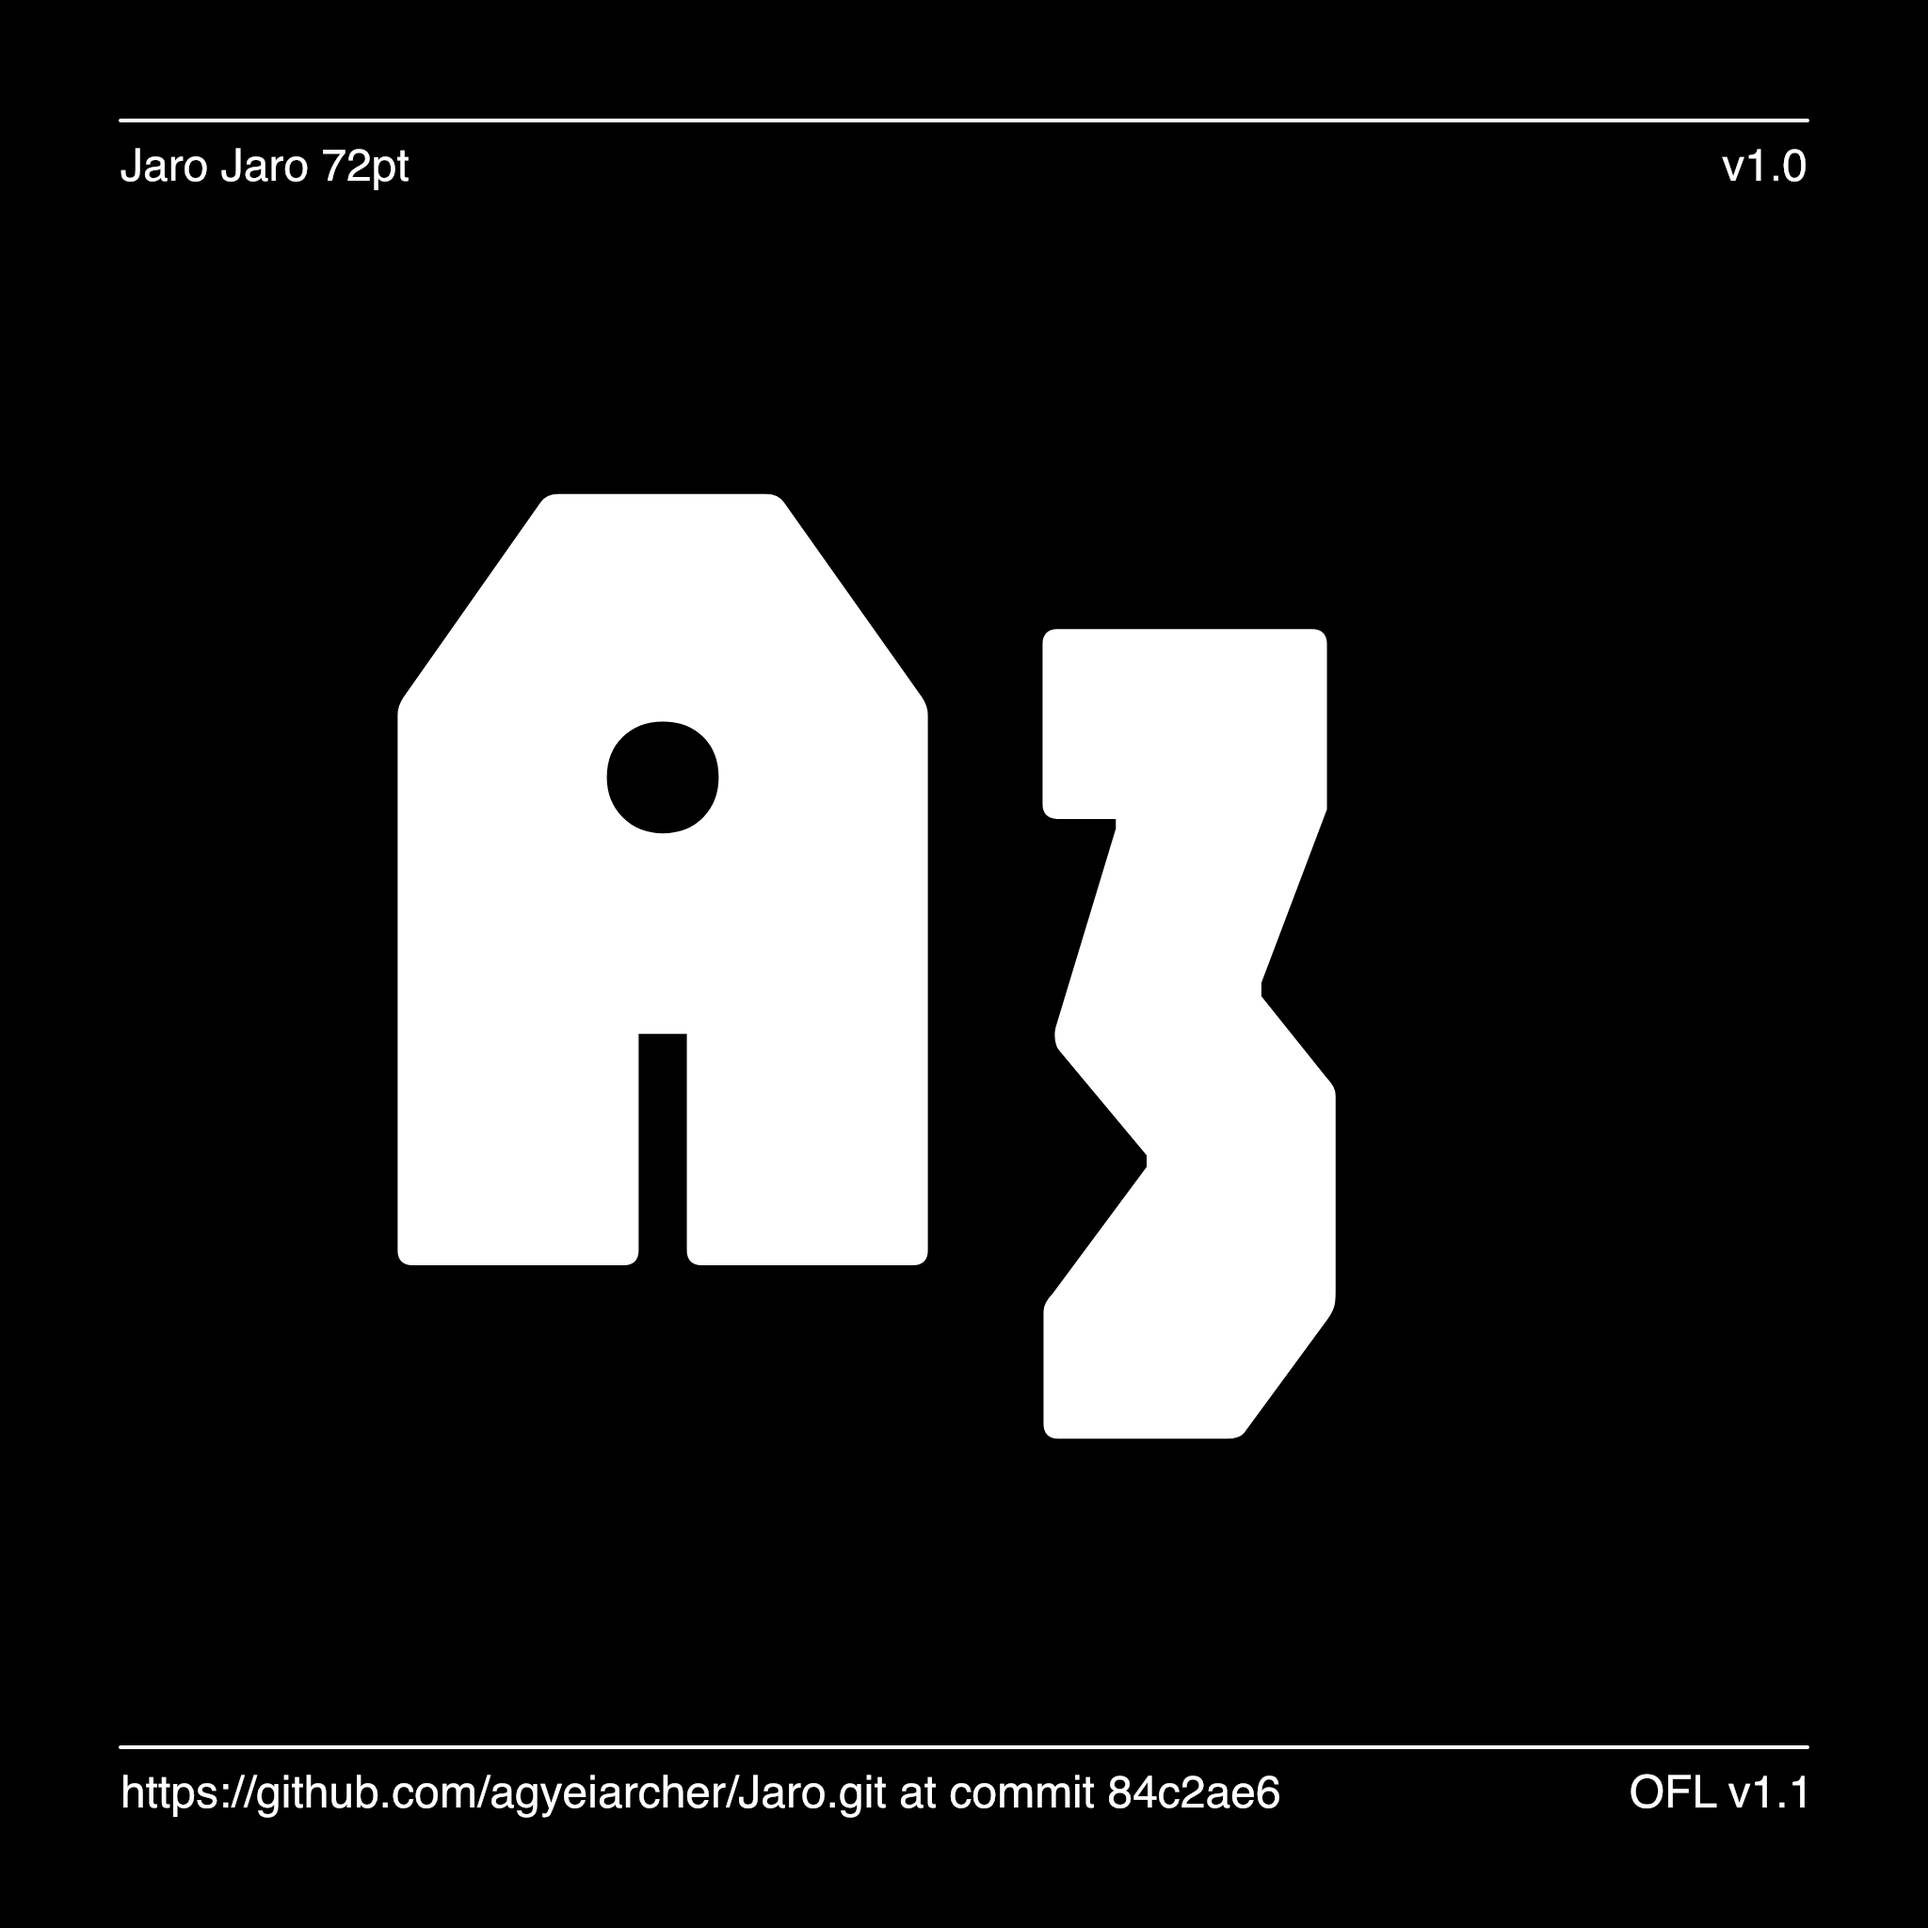
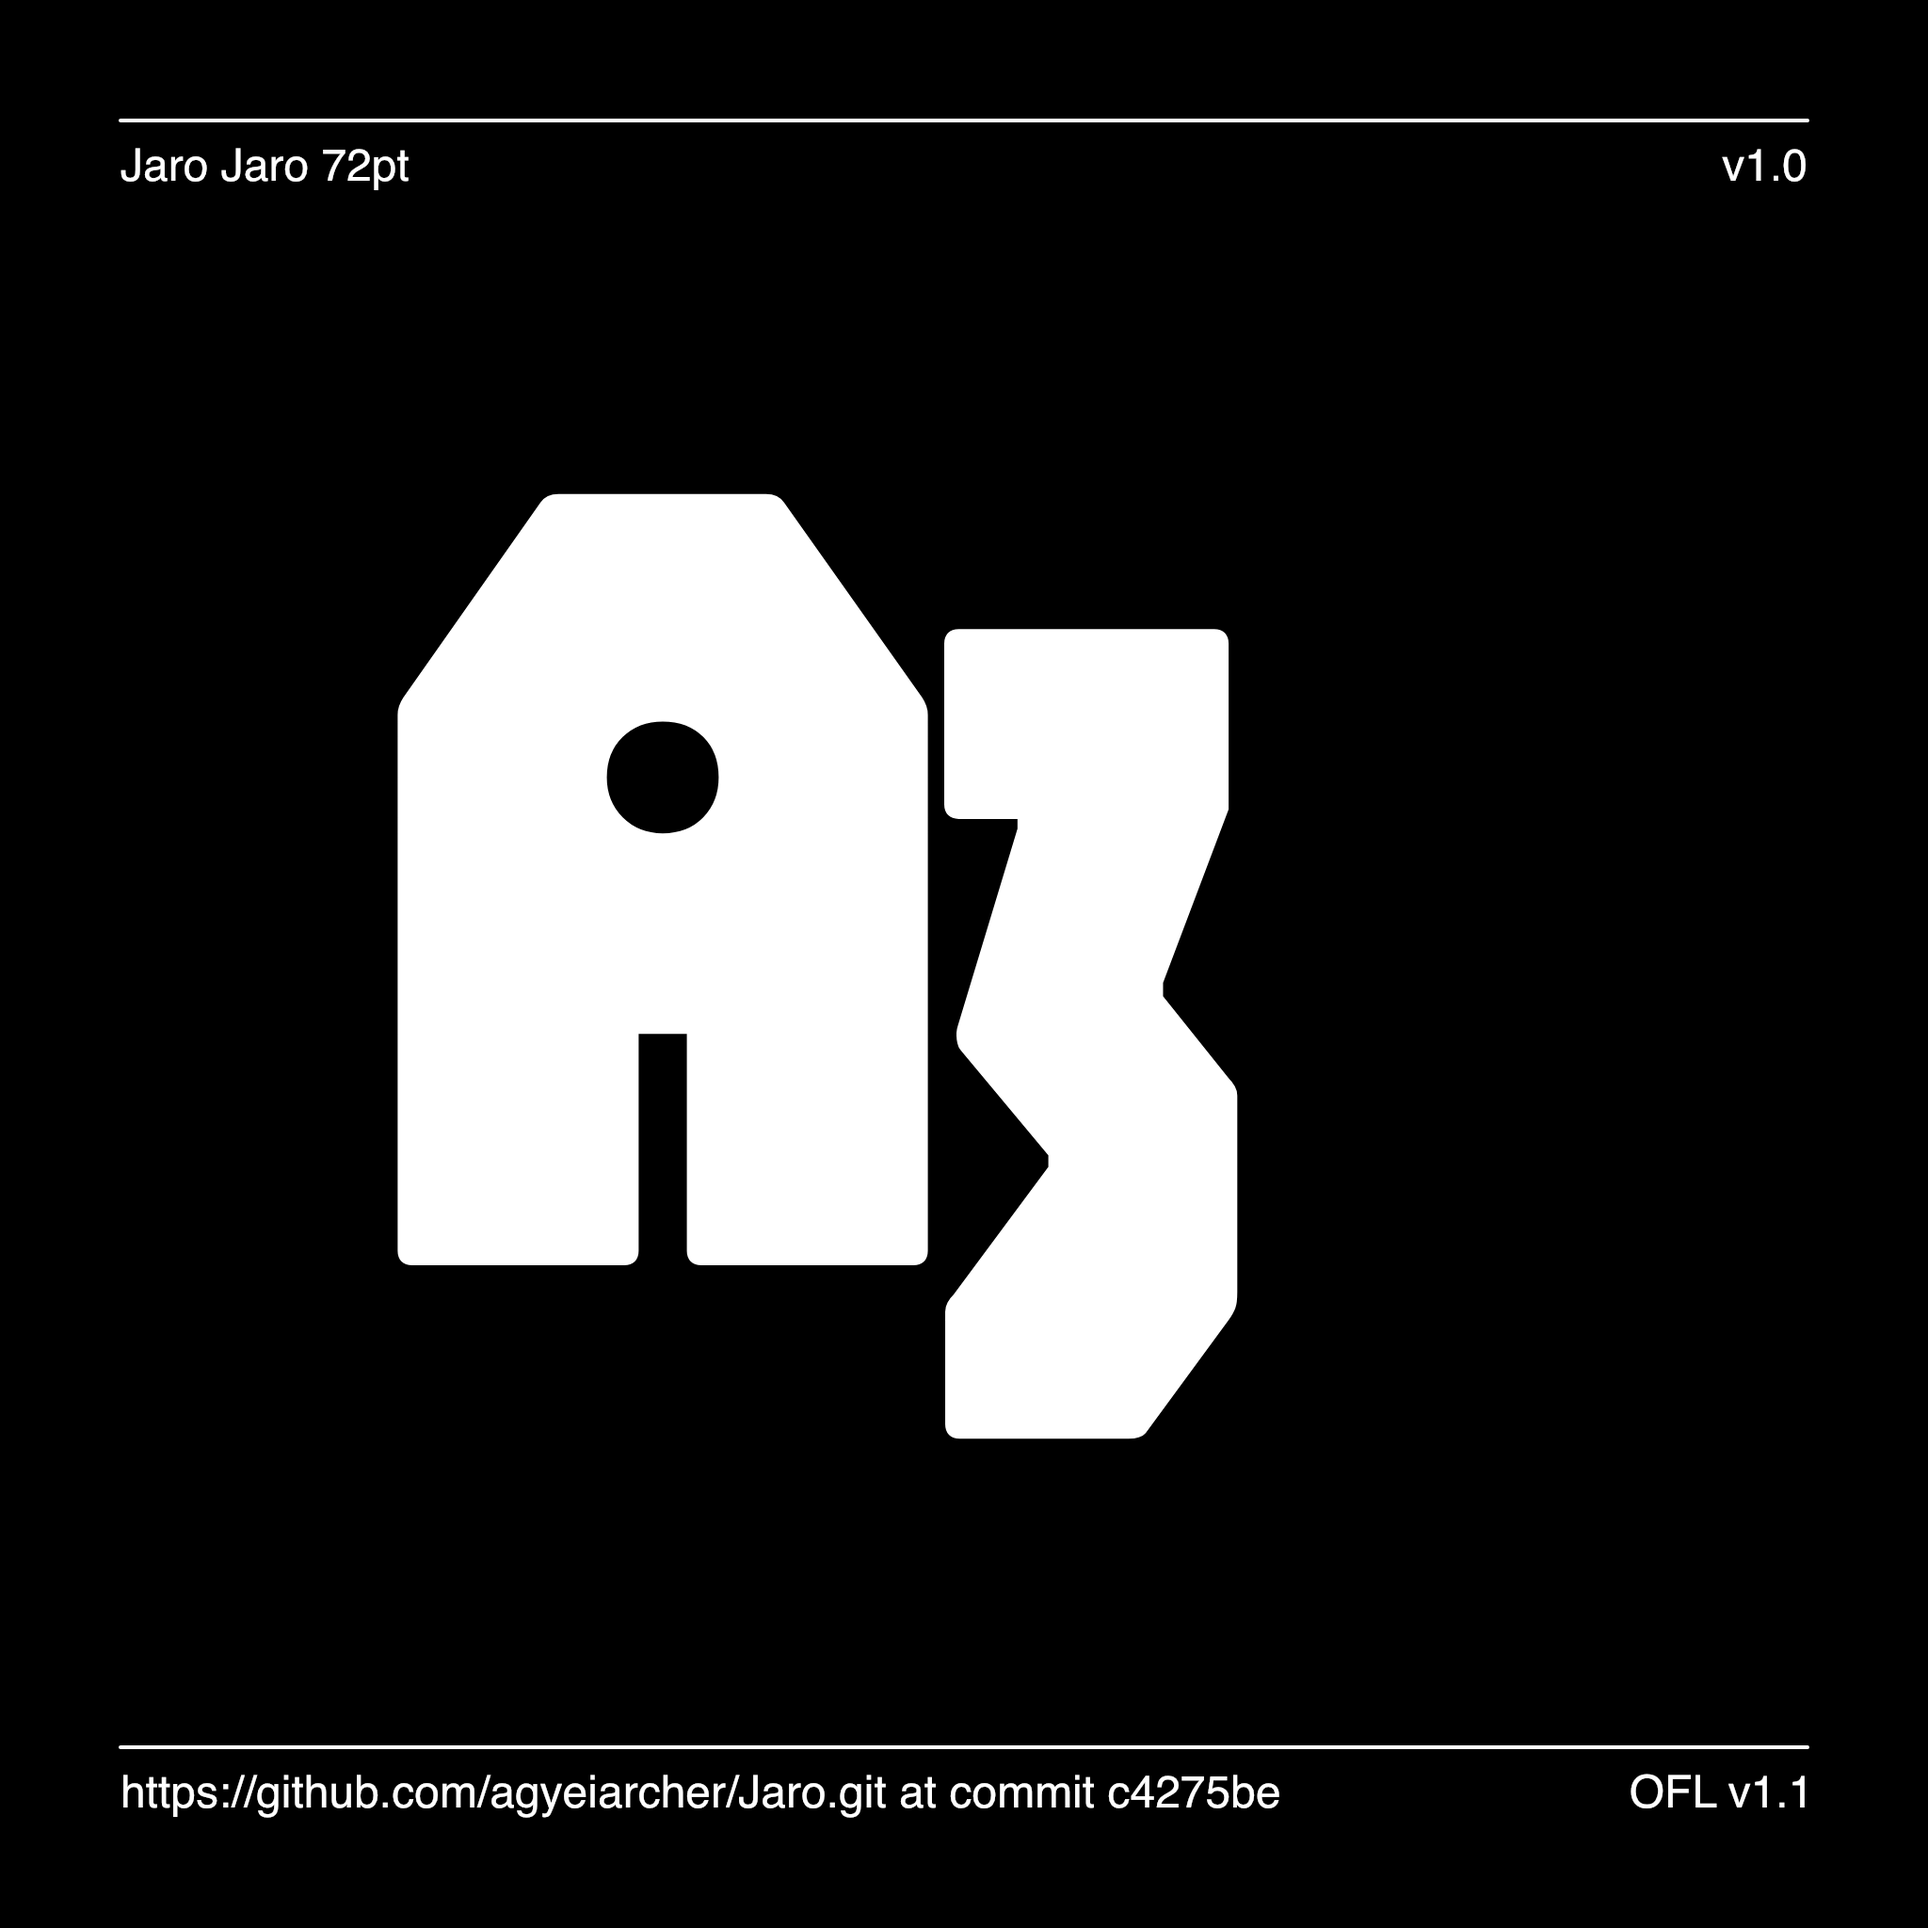
spacing updates to ezh, image preview updates

Changed region(s): [[0.4688, 0.3125, 0.5938, 0.75], [0.5938, 0.3125, 0.7188, 0.75], [0.5625, 0.9062, 0.6562, 0.9375]]

diff --git a/documentation/image1.py b/documentation/image1.py
@@ -16,7 +16,7 @@ import argparse
 
 # Constants, these are the main "settings" for the image
 WIDTH, HEIGHT, MARGIN, FRAMES = 2048, 2048, 128, 1
-FONT_PATH = "fonts/ttf/Jaro72pt.ttf"
+FONT_PATH = "fonts/ttf/Jaro-Jaro72pt.ttf"
 FONT_LICENSE = "OFL v1.1"
 AUXILIARY_FONT = "Helvetica"
 AUXILIARY_FONT_SIZE = 48
